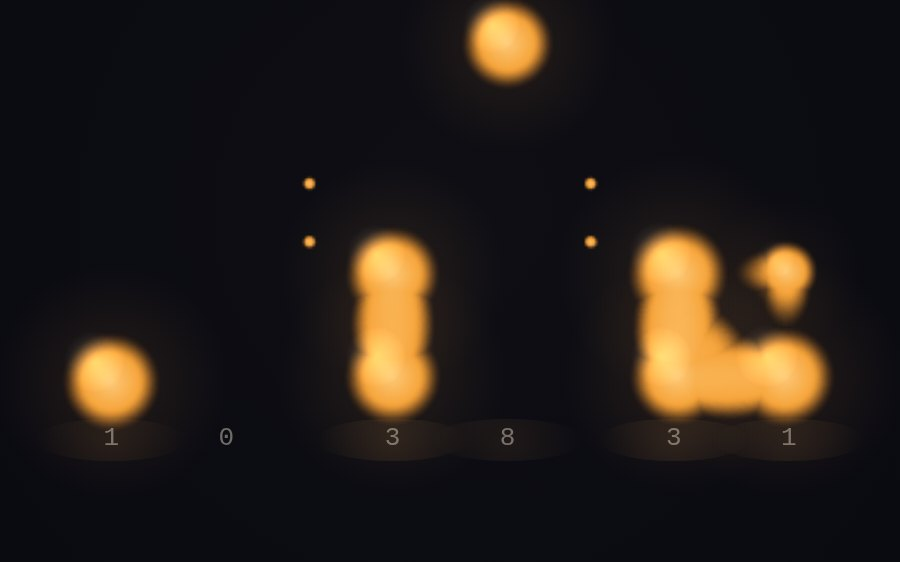
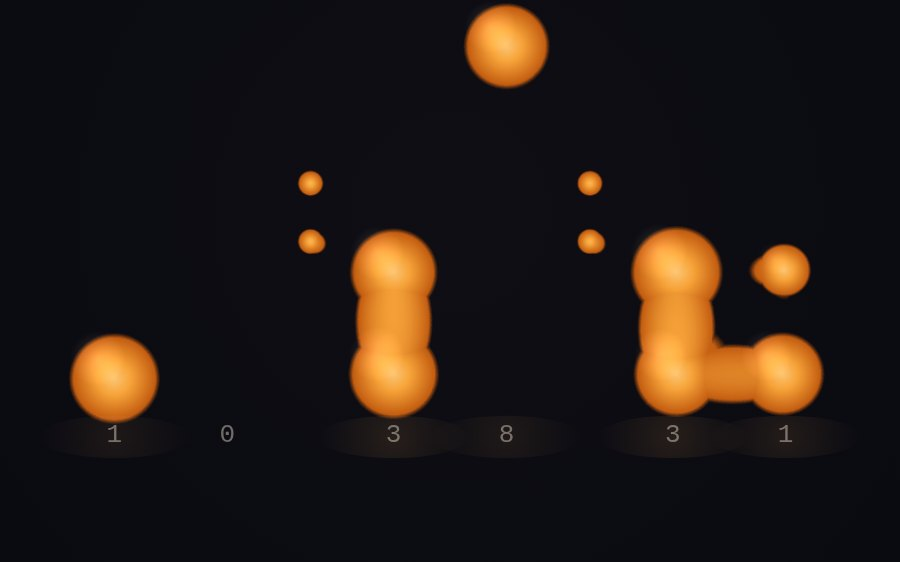
Fluid rebuilt: full-res field, hard threshold, rim shading, cluster wobble

diff --git a/fluid/index.html b/fluid/index.html
@@ -16,23 +16,34 @@
 (function () {
   'use strict';
   // FLUID — a binary clock in liquid light. Timepieces № 08.
+  //
+  // Research notes (2026-10-23 rebuild):
+  // * Binary clocks that work (the Berlin Mengenlehreuhr above all)
+  //   use hard-edged fields on a strict grid. Every lamp stays a
+  //   distinct, countable unit; nothing blurs. A fluid version has to
+  //   keep that discipline: bits you can count, edges you can see.
+  // * Real droplet coalescence is never blurry either. Two drops are
+  //   sharp bodies until the film between them ruptures; then a
+  //   liquid bridge appears and grows fast (radius ~ t^1/2 in the
+  //   inertial regime), and the merged body oscillates, damped, into
+  //   its resting shape. The interface is the sharpest thing in the
+  //   picture at every instant.
+  // So: the field is computed at full resolution over the clock's own
+  // box and thresholded HARD (a two-pixel edge, with a darker rim just
+  // inside the contour, like a meniscus). Each droplet keeps a bright
+  // core, so inside a merged body you can still count the bits. When
+  // a droplet lights next to a lit neighbour the bridge snaps in
+  // quickly, and the whole cluster gets a damped wobble, the way a
+  // merged drop rings before it settles.
+  //
   // Six columns (hours, minutes, seconds; two digits each), four rows
-  // of bits (8 4 2 1, bottom-aligned). A lit bit is a droplet of warm
-  // liquid light. The droplets are one scalar field: each contributes
-  // a soft falloff, the field is drawn, then a threshold turns it into
-  // bodies — and where two droplets come close, their fields sum over
-  // the threshold between them first, so a neck forms, pulls taut,
-  // and they merge into one body, the way real drops do. A droplet
-  // that lights gathers with a spring and a wobble; one that goes
-  // dark is sucked back down. Lit neighbours lean toward each other,
-  // the way two drops on glass reach before they touch.
-  // Tap: show or hide the small decimal digits under each column.
+  // of bits (8 4 2 1). Tap toggles the small decimal digits.
 
   var canvas = document.getElementById('cv');
   var ctx = canvas.getContext('2d');
   var field = document.createElement('canvas');
   var fctx = field.getContext('2d', { willReadFrequently: true });
-  var W = 0, H = 0, DPR = 1, FS = 0.5;
+  var W = 0, H = 0, DPR = 1;
 
   var params = new URLSearchParams(location.search);
   var freezeT = params.has('t') ? parseInt(params.get('t'), 10) : null;
@@ -53,7 +64,7 @@
       var col = [];
       for (var b = 0; b < 4; b++) {
         var on = (digs[c] & BITS[b]) !== 0;
-        col.push({ on: on, amt: on ? 1 : 0, vel: 0, wob: Math.random() * 6.28 });
+        col.push({ on: on, amt: on ? 1 : 0, vel: 0, wob: Math.random() * 6.28, kick: 0, born: -1e9 });
       }
       st.push(col);
     }
@@ -78,9 +89,6 @@
     H = window.innerHeight;
     canvas.width = Math.round(W * DPR);
     canvas.height = Math.round(H * DPR);
-    FS = (W * H > 900000) ? 0.4 : 0.5;
-    field.width = Math.max(2, Math.round(W * FS));
-    field.height = Math.max(2, Math.round(H * FS));
   }
   window.addEventListener('resize', resize);
   resize();
@@ -90,8 +98,8 @@
   function layout() {
     var portrait = H >= W;
     var cellR = portrait ? Math.min(W * 0.056, H * 0.040) : Math.min(H * 0.056, W * 0.028);
-    var rowGap = cellR * 2.24;
-    var colGapIn = cellR * 2.28;
+    var rowGap = cellR * 2.20;
+    var colGapIn = cellR * 2.24;
     var colGapPair = cellR * 3.30;
     var totalW = colGapIn * 3 + colGapPair * 2;
     var x0 = (W - totalW) / 2;
@@ -103,10 +111,15 @@
       xs.push(x0 + Math.floor(c / 2) * (colGapIn + colGapPair) + (c % 2) * colGapIn);
     }
     for (var b = 0; b < 4; b++) ys.push(yTop + b * rowGap);
-    return { cellR: cellR, xs: xs, ys: ys, cy: cy, gridBot: yTop + gridH };
+    var pad = cellR * 2.6;
+    return {
+      cellR: cellR, xs: xs, ys: ys, cy: cy, gridBot: yTop + gridH,
+      boxX: xs[0] - pad, boxY: ys[0] - pad,
+      boxW: (xs[5] - xs[0]) + pad * 2, boxH: (ys[3] - ys[0]) + pad * 2
+    };
   }
 
-  function tickTargets() {
+  function tickTargets(now) {
     var t = nowHMS();
     var digs = [
       Math.floor(t[0] / 10), t[0] % 10,
@@ -115,25 +128,42 @@
     ];
     for (var c = 0; c < 6; c++) {
       for (var b = 0; b < 4; b++) {
-        state[c][b].on = (digs[c] & BITS[b]) !== 0;
+        var cell = state[c][b];
+        var on = (digs[c] & BITS[b]) !== 0;
+        if (on !== cell.on) {
+          cell.on = on;
+          if (on) cell.born = now;
+          // a change rings the cluster: the flipped droplet and its
+          // lit neighbours take a wobble kick
+          cell.kick = 1;
+          if (b > 0) state[c][b - 1].kick = Math.max(state[c][b - 1].kick, 0.8);
+          if (b < 3) state[c][b + 1].kick = Math.max(state[c][b + 1].kick, 0.8);
+          if (c % 2 === 0) state[c + 1][b].kick = Math.max(state[c + 1][b].kick, 0.6);
+          else state[c - 1][b].kick = Math.max(state[c - 1][b].kick, 0.6);
+        }
       }
     }
     return t;
   }
 
-  // amber shading from field strength: deep edge -> amber -> hot core
+  // shading by field strength: dark rim -> deep amber -> amber -> hot core
   function shade(f, out, i) {
     var r, g, b;
-    if (f < 0.5) {
-      var u = f * 2;
-      r = 198 + (247 - 198) * u;
-      g = 92 + (164 - 92) * u;
-      b = 18 + (58 - 18) * u;
+    if (f < 0.16) {           // the rim: just inside the contour
+      var u = f / 0.16;
+      r = 148 + (196 - 148) * u;
+      g = 62 + (94 - 62) * u;
+      b = 10 + (18 - 10) * u;
+    } else if (f < 0.55) {
+      var v = (f - 0.16) / 0.39;
+      r = 196 + (247 - 196) * v;
+      g = 94 + (164 - 94) * v;
+      b = 18 + (58 - 18) * v;
     } else {
-      var v = (f - 0.5) * 2;
-      r = 247 + (255 - 247) * v;
-      g = 164 + (219 - 164) * v;
-      b = 58 + (150 - 58) * v;
+      var w = (f - 0.55) / 0.45;
+      r = 247 + (255 - 247) * w;
+      g = 164 + (221 - 164) * w;
+      b = 58 + (156 - 58) * w;
     }
     out[i] = r; out[i + 1] = g; out[i + 2] = b;
   }
@@ -143,25 +173,31 @@
   function frame(now) {
     var dt = Math.min(0.05, (now - last) / 1000);
     last = now;
-    var t = tickTargets();
+    var t = tickTargets(now);
     var L = layout();
     var r = L.cellR;
 
-    // droplet springs: underdamped, so lighting overshoots and settles
+    // droplet springs (underdamped) + decaying cluster wobble
     for (var c = 0; c < 6; c++) {
       for (var b = 0; b < 4; b++) {
         var cell = state[c][b];
         var target = cell.on ? 1 : 0;
-        var acc = (target - cell.amt) * 90 - cell.vel * 11;
+        var stiff = (target > cell.amt) ? 150 : 90;   // bridges snap in fast
+        var acc = (target - cell.amt) * stiff - cell.vel * 12;
         cell.vel += acc * dt;
         cell.amt += cell.vel * dt;
         if (cell.amt < 0) { cell.amt = 0; cell.vel *= -0.3; }
+        cell.kick *= Math.exp(-dt * 2.6);
       }
     }
-    if (pinGrow) { state[5][2].amt = 0.55; state[5][2].on = true; }
+    if (pinGrow) { state[5][2].amt = 0.55; state[5][2].on = true; state[5][2].kick = 0.7; }
 
-    // ---------- field pass (small canvas, white falloffs) ----------
-    var fw = field.width, fh = field.height;
+    // ---------- field over the clock's box, near full resolution ----
+    var FS = 1;
+    var bw = Math.round(L.boxW), bh = Math.round(L.boxH);
+    if (bw * bh > 520000) FS = Math.sqrt(520000 / (bw * bh));
+    var fw = Math.max(2, Math.round(bw * FS)), fh = Math.max(2, Math.round(bh * FS));
+    if (field.width !== fw || field.height !== fh) { field.width = fw; field.height = fh; }
     fctx.clearRect(0, 0, fw, fh);
     fctx.globalCompositeOperation = 'lighter';
     var drops = [];
@@ -171,17 +207,18 @@
         if (cl.amt <= 0.01) continue;
         var x = L.xs[c2], y = L.ys[b2];
         var leanX = 0, leanY = 0;
-        if (b2 > 0 && state[c2][b2 - 1].amt > 0.5) leanY -= r * 0.10 * cl.amt;
-        if (b2 < 3 && state[c2][b2 + 1].amt > 0.5) leanY += r * 0.10 * cl.amt;
-        if (c2 % 2 === 0 && state[c2 + 1][b2].amt > 0.5) leanX += r * 0.08 * cl.amt;
-        if (c2 % 2 === 1 && state[c2 - 1][b2].amt > 0.5) leanX -= r * 0.08 * cl.amt;
-        var wob = 1 + 0.05 * Math.sin(now / 480 + cl.wob) * cl.amt;
-        var R = r * (0.22 + 0.88 * cl.amt) * wob;
+        if (b2 > 0 && state[c2][b2 - 1].amt > 0.5) leanY -= r * 0.09 * cl.amt;
+        if (b2 < 3 && state[c2][b2 + 1].amt > 0.5) leanY += r * 0.09 * cl.amt;
+        if (c2 % 2 === 0 && state[c2 + 1][b2].amt > 0.5) leanX += r * 0.07 * cl.amt;
+        if (c2 % 2 === 1 && state[c2 - 1][b2].amt > 0.5) leanX -= r * 0.07 * cl.amt;
+        var wob = 1 + 0.028 * Math.sin(now / 520 + cl.wob) * cl.amt
+                    + 0.075 * cl.kick * Math.sin(now / 68 + cl.wob * 3);
+        var R = r * (0.22 + 0.86 * cl.amt) * wob;
         drops.push({ x: x + leanX, y: y + leanY, R: R, amt: cl.amt });
-        var fx = (x + leanX) * FS, fy = (y + leanY) * FS, fr = R * 1.55 * FS;
+        var fx = (x + leanX - L.boxX) * FS, fy = (y + leanY - L.boxY) * FS, fr = R * 1.52 * FS;
         var g = fctx.createRadialGradient(fx, fy, 0, fx, fy, fr);
-        g.addColorStop(0, 'rgba(255,255,255,0.85)');
-        g.addColorStop(0.55, 'rgba(255,255,255,0.38)');
+        g.addColorStop(0, 'rgba(255,255,255,0.88)');
+        g.addColorStop(0.55, 'rgba(255,255,255,0.40)');
         g.addColorStop(1, 'rgba(255,255,255,0)');
         fctx.fillStyle = g;
         fctx.beginPath();
@@ -189,14 +226,13 @@
         fctx.fill();
       }
     }
-    // colon beads join the same field
     var pulse = 0.72 + 0.28 * Math.sin(now / 1000 * Math.PI);
     [1, 3].forEach(function (li) {
       var cxp = (L.xs[li] + L.xs[li + 1]) / 2;
       [-0.55, 0.55].forEach(function (off) {
-        var fx = cxp * FS, fy = (L.cy + off * r * 1.05) * FS, fr = r * 0.34 * pulse * 1.55 * FS;
+        var fx = (cxp - L.boxX) * FS, fy = (L.cy + off * r * 1.05 - L.boxY) * FS, fr = r * 0.42 * pulse * 1.5 * FS;
         var g = fctx.createRadialGradient(fx, fy, 0, fx, fy, fr);
-        g.addColorStop(0, 'rgba(255,255,255,0.8)');
+        g.addColorStop(0, 'rgba(255,255,255,0.82)');
         g.addColorStop(1, 'rgba(255,255,255,0)');
         fctx.fillStyle = g;
         fctx.beginPath();
@@ -206,19 +242,19 @@
     });
     fctx.globalCompositeOperation = 'source-over';
 
-    // ---------- threshold + shade ----------
+    // ---------- HARD threshold: a two-pixel edge, rim inside --------
     var img = fctx.getImageData(0, 0, fw, fh);
     var px = img.data;
-    var TH = 90, SOFT = 60;
+    var TH = 104, SOFT = 13;
     for (var i = 0; i < px.length; i += 4) {
       var a = px[i + 3];
       if (a <= TH - SOFT) { px[i + 3] = 0; continue; }
       var f = (a - (TH - SOFT)) / (255 - (TH - SOFT));
       if (f > 1) f = 1;
-      var edge = (a - TH) / SOFT;
-      if (edge > 1) edge = 1;
-      if (edge < 0) edge = 0;
-      px[i + 3] = Math.round(255 * (edge * edge * (3 - 2 * edge)));
+      var e = (a - TH) / SOFT;
+      if (e > 1) e = 1;
+      if (e < 0) e = 0;
+      px[i + 3] = Math.round(255 * e);
       shade(f, px, i);
     }
     fctx.putImageData(img, 0, 0);
@@ -232,33 +268,20 @@
     ctx.fillStyle = room;
     ctx.fillRect(0, 0, W, H);
 
-    // soft halo under the liquid (unthresholded, faint)
-    ctx.save();
-    ctx.globalCompositeOperation = 'lighter';
-    drops.forEach(function (d) {
-      var hg = ctx.createRadialGradient(d.x, d.y, 0, d.x, d.y, d.R * 2.1);
-      hg.addColorStop(0, 'rgba(255,166,66,' + (0.10 * d.amt) + ')');
-      hg.addColorStop(1, 'rgba(255,166,66,0)');
-      ctx.fillStyle = hg;
-      ctx.beginPath();
-      ctx.arc(d.x, d.y, d.R * 2.1, 0, 6.283);
-      ctx.fill();
-    });
-    ctx.restore();
-
     ctx.imageSmoothingEnabled = true;
-    ctx.drawImage(field, 0, 0, W, H);
+    ctx.drawImage(field, L.boxX, L.boxY, L.boxW, L.boxH);
 
-    // gloss: a small soft highlight high on each droplet
+    // gloss: one tight highlight per droplet, clipped by nothing but
+    // small enough to sit inside the body
     ctx.save();
     ctx.globalCompositeOperation = 'lighter';
     drops.forEach(function (d) {
-      var gg = ctx.createRadialGradient(d.x - d.R * 0.30, d.y - d.R * 0.36, 0, d.x - d.R * 0.30, d.y - d.R * 0.36, d.R * 0.55);
-      gg.addColorStop(0, 'rgba(255,246,220,' + (0.20 * d.amt) + ')');
+      var gg = ctx.createRadialGradient(d.x - d.R * 0.30, d.y - d.R * 0.36, 0, d.x - d.R * 0.30, d.y - d.R * 0.36, d.R * 0.5);
+      gg.addColorStop(0, 'rgba(255,246,220,' + (0.16 * d.amt) + ')');
       gg.addColorStop(1, 'rgba(255,246,220,0)');
       ctx.fillStyle = gg;
       ctx.beginPath();
-      ctx.arc(d.x - d.R * 0.30, d.y - d.R * 0.36, d.R * 0.55, 0, 6.283);
+      ctx.arc(d.x - d.R * 0.30, d.y - d.R * 0.36, d.R * 0.5, 0, 6.283);
       ctx.fill();
     });
     ctx.restore();
